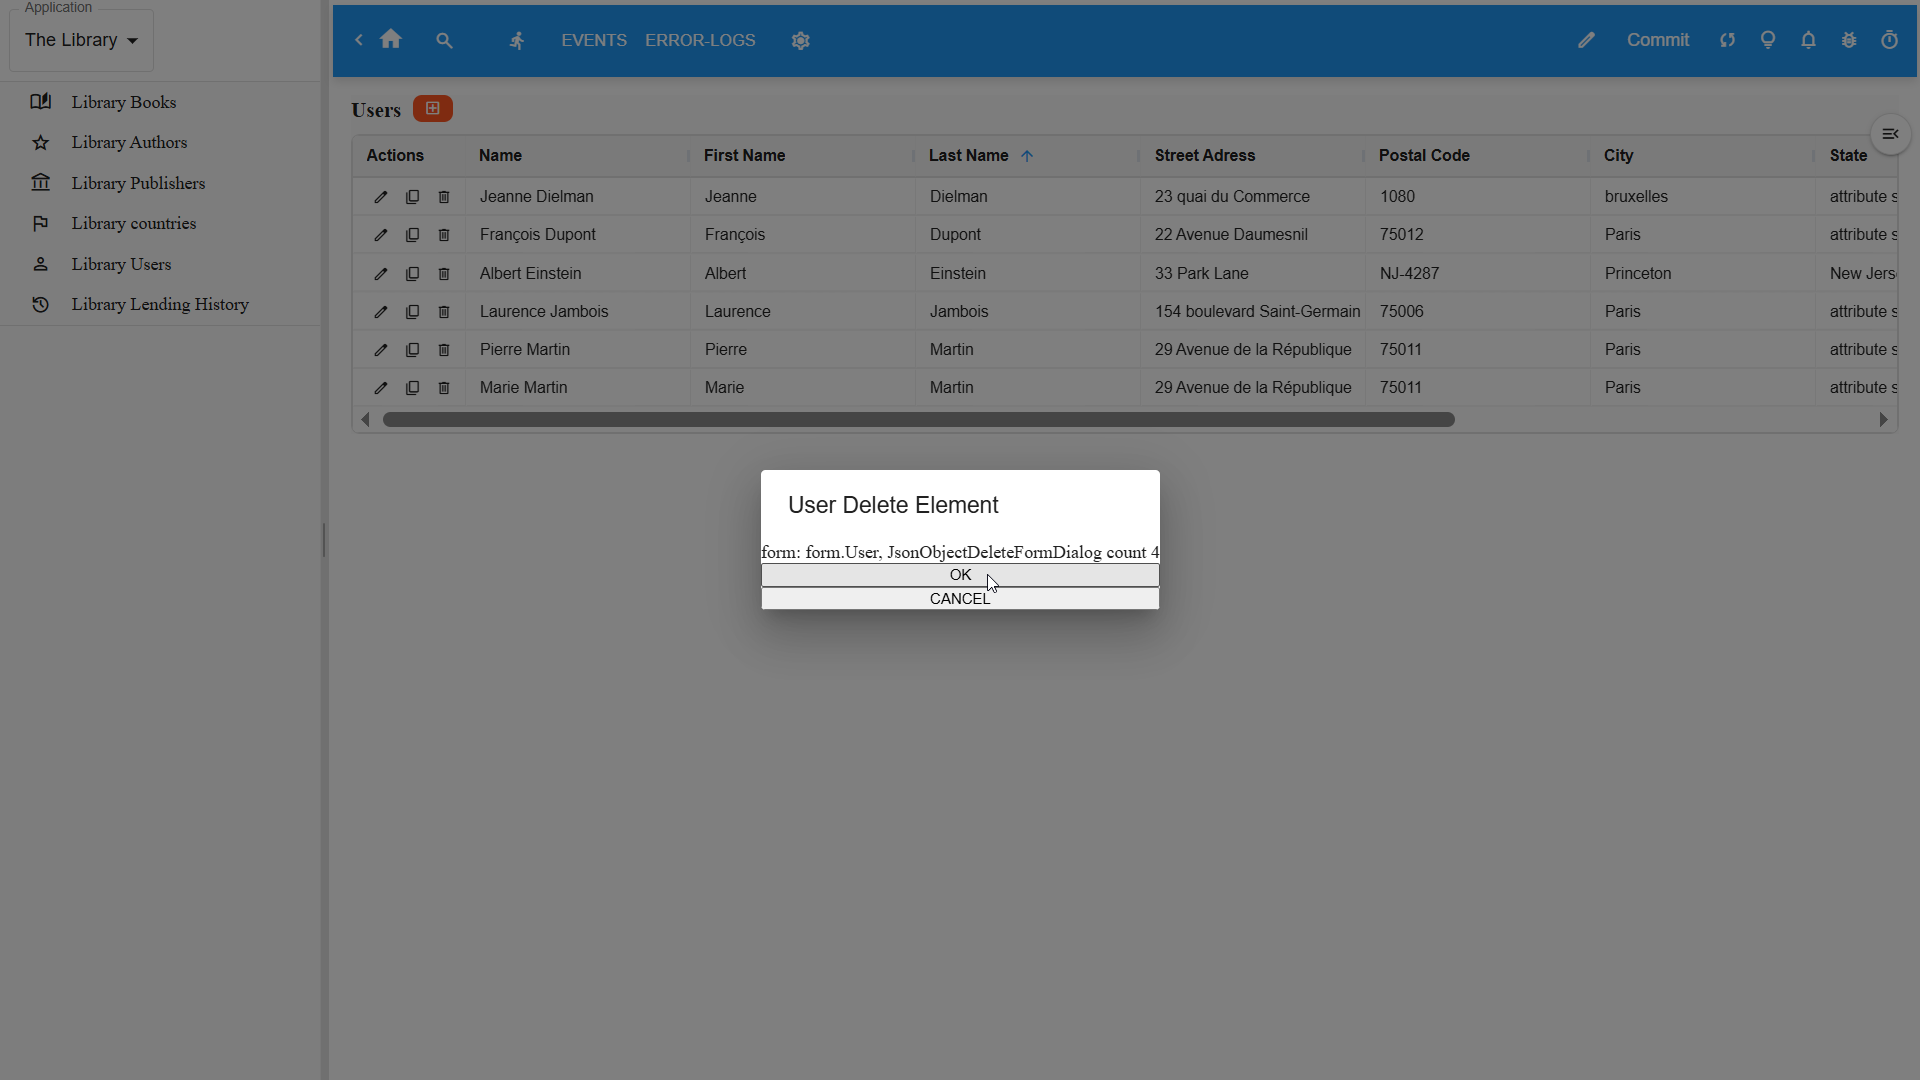
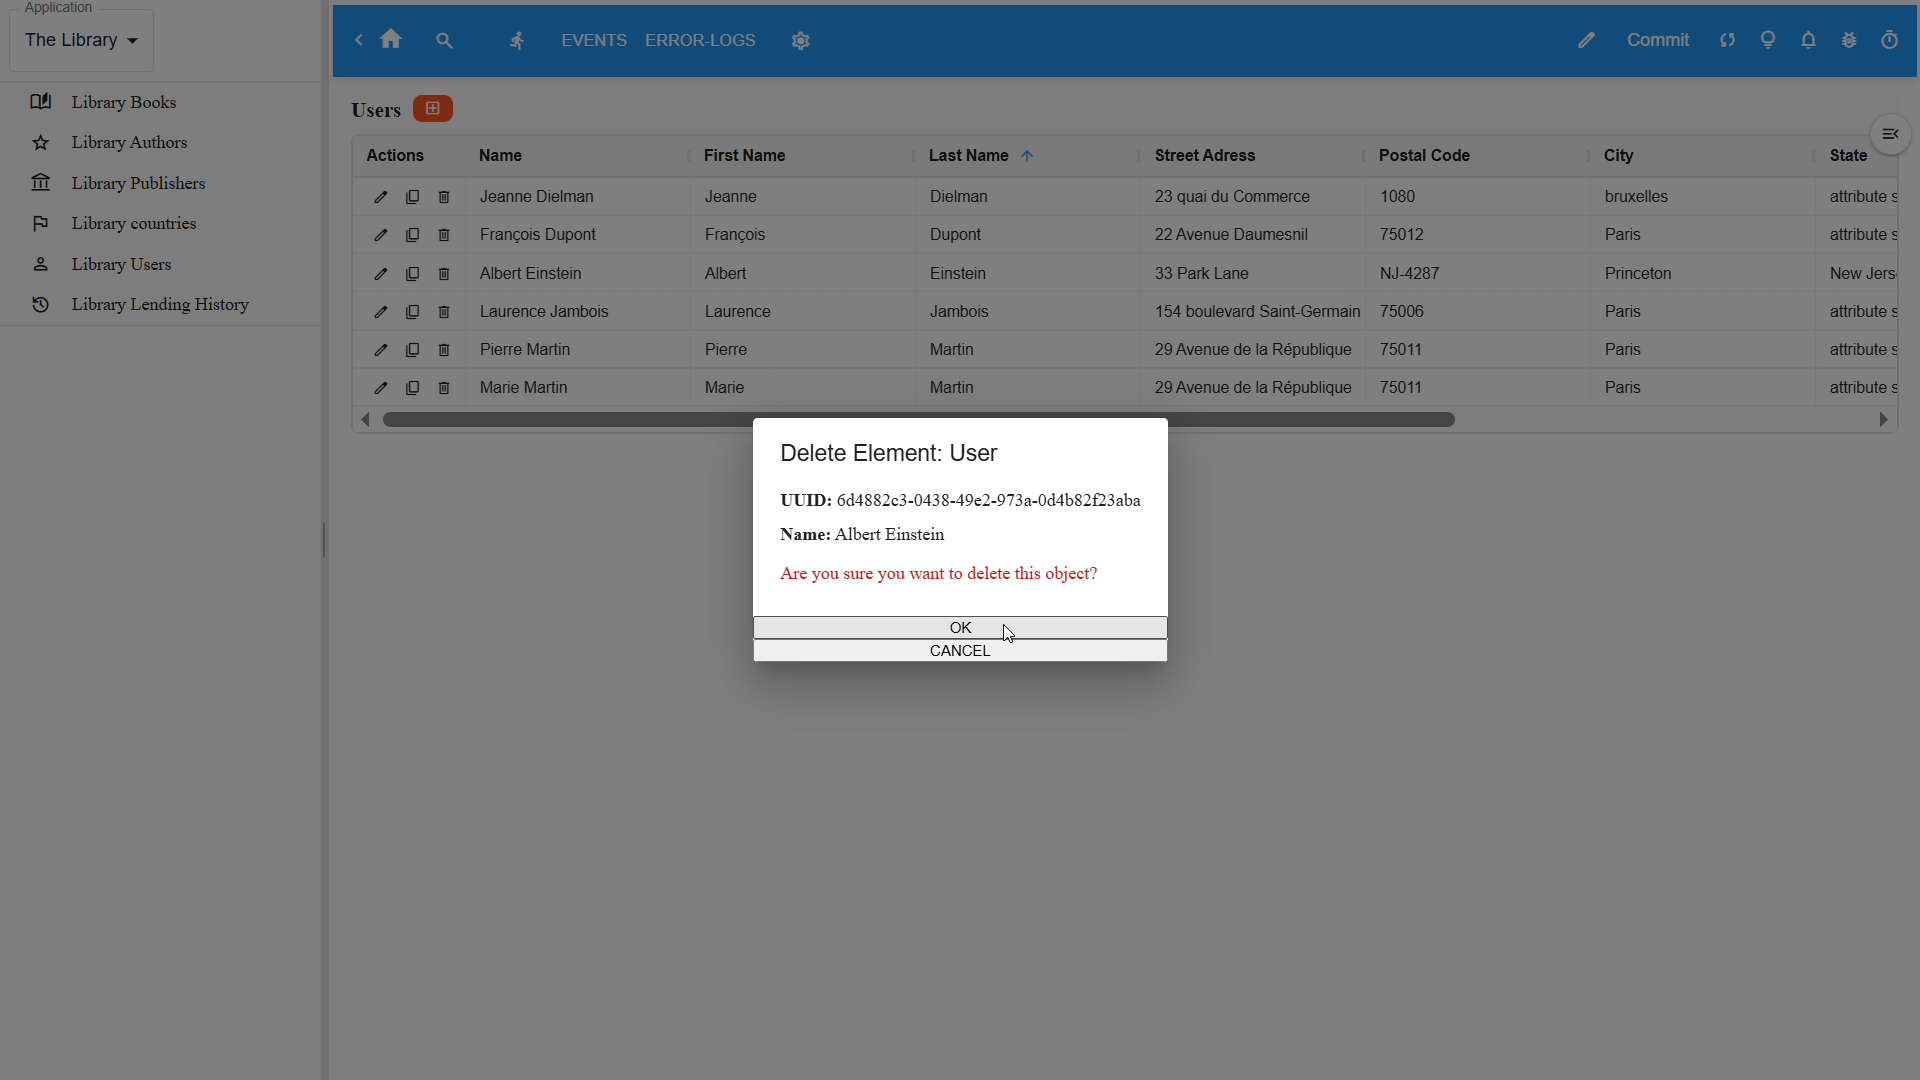
DOCUMENTATION: improve the Library Tutorial. Recaptured some images

Changed region(s): [[0.375, 0.3667, 0.625, 0.6417]]

diff --git a/docs/libraryTutorial/libraryTutorial.md b/docs/libraryTutorial/libraryTutorial.md
@@ -28,7 +28,7 @@ The interface has three main areas:
 
 ### Browsing Data Through Entities
 
-<img src="./library_homepage_menu.jpg" alt="The Library Catalogue Menu" width="60%"/>
+<img src="./library_homepage_menu.jpg" alt="The Library Catalogue Menu" width="40%"/>
 
 The Library organizes its data into **Entities** - collections of related instances with a common structure:
 
@@ -97,7 +97,7 @@ you will get the following screen:
 
 Upon validation, a success notification is displayed, and the added User can be seen in the Users' list.
 
-<img src="./library_user_ADD_SUCCESS.png" alt="Add a new User Succeeded" width="80%"/>
+<img src="./library_user_ADD_SUCCESS.png" alt="Add a new User Succeeded" width="60%"/>
 
 #### Deleting a User
 
@@ -109,7 +109,7 @@ Confirm the Drop:
 
 <!-- ![Drop a User: confirm](./library_user_DROP_confirm.png) -->
 
-<img src="./library_user_DROP_confirm.png" width="70%"/>
+<img src="./library_user_DROP_confirm.png" width="80%"/>
 
 A success message is displayed, and the user disappears from the Users' list.
 
